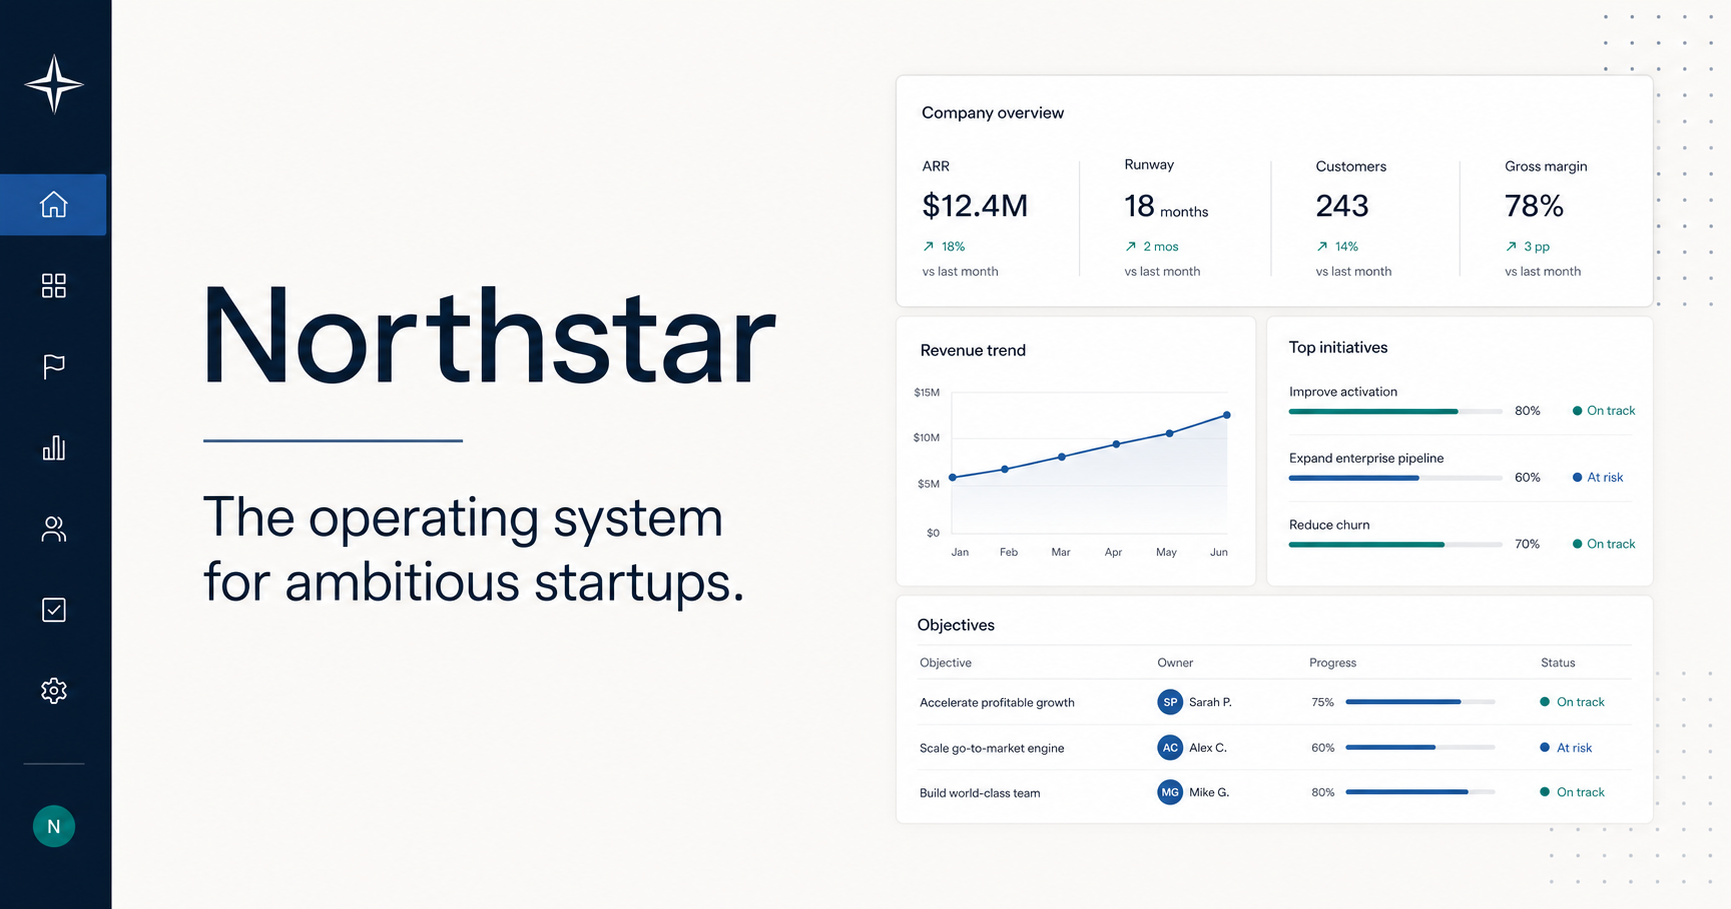
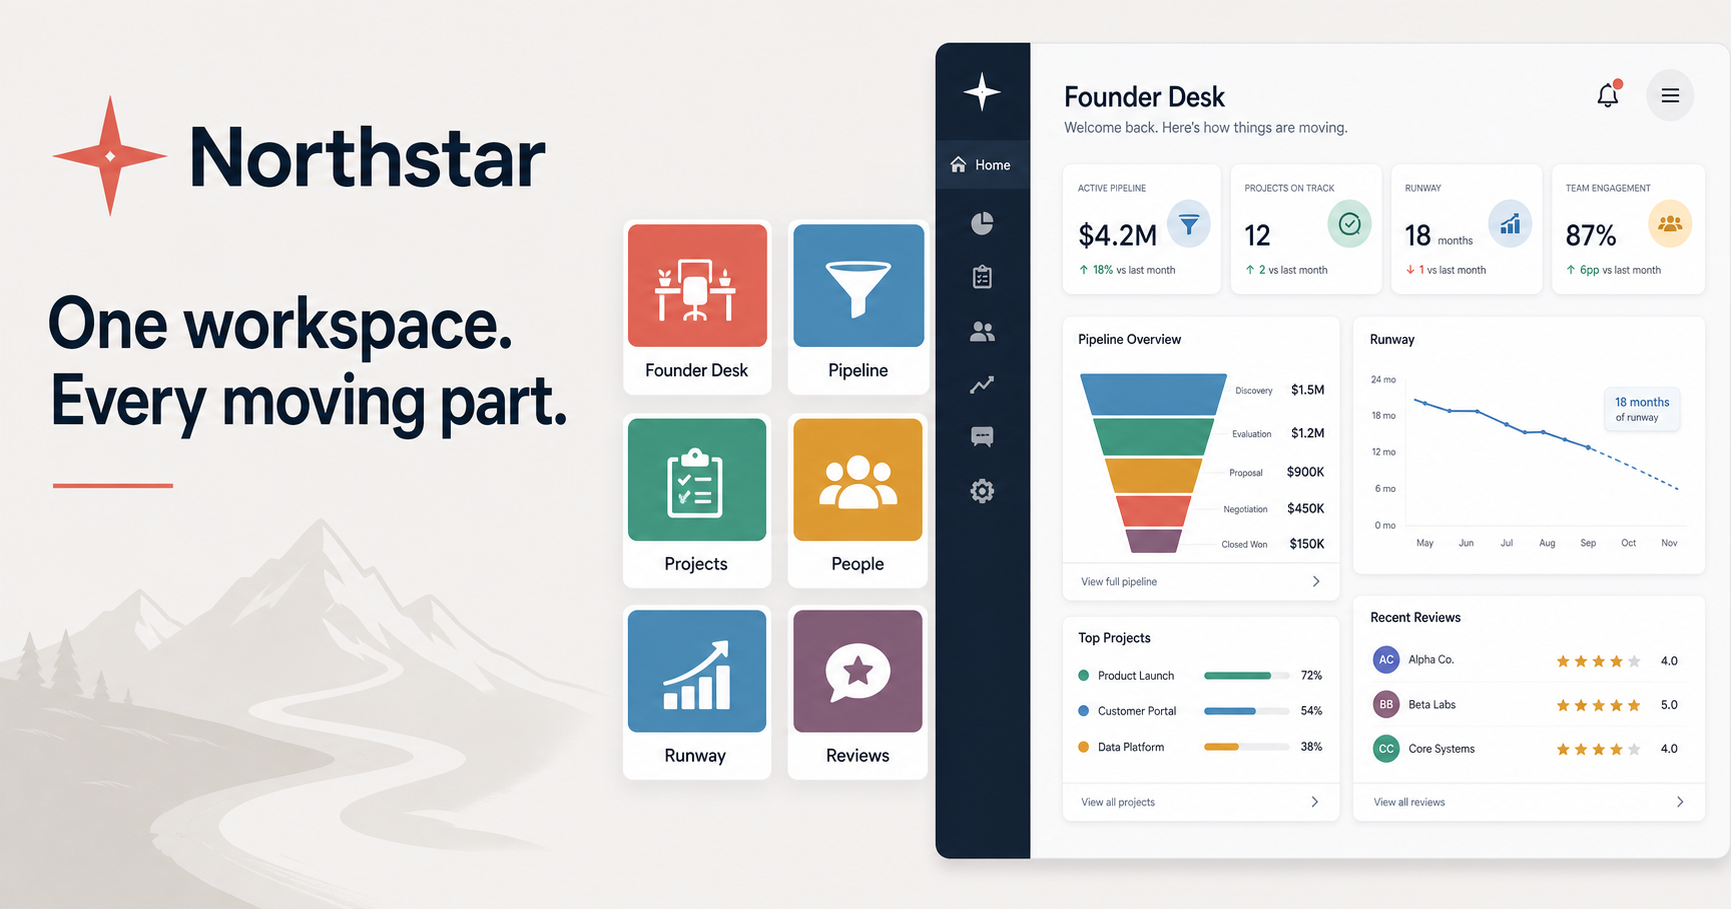
Add modular operating app experience

diff --git a/app/globals.css b/app/globals.css
@@ -148,3 +148,33 @@ body { background:var(--bg); color:var(--text); font-family:var(--font-geist-san
 .loading-line { background:#e3e7eb; }
 .loading-line i { background:#315b82; }
 .toast { background:#fff3f2; border-color:#efc9c6; color:#9d3833; box-shadow:0 8px 25px #10182812; }
+
+/* Northstar modular workspace — inspired by integrated business suites, never copied */
+.content { max-width:1460px; }
+.app-launcher { margin:-5px 0 30px; }
+.launcher-heading { display:flex; align-items:center; justify-content:space-between; margin:0 2px 11px; }
+.launcher-heading>span { font-size:8px; font-weight:850; letter-spacing:1.45px; color:#7b8794; }
+.launcher-heading button { border:0; background:transparent; color:#315b82; font-size:9px; font-weight:750; cursor:pointer; }
+.app-grid { display:grid; grid-template-columns:repeat(6,1fr); gap:10px; }
+.app-tile { min-width:0; display:flex; align-items:center; gap:10px; text-align:left; padding:11px; border-radius:13px; border:1px solid #e1e5ea; background:#fff; color:#17202a; cursor:pointer; box-shadow:0 1px 2px #10182808; transition:transform .16s ease,border-color .16s ease,box-shadow .16s ease; }
+.app-tile:hover { transform:translateY(-2px); border-color:#cad2da; box-shadow:0 8px 18px #25344612; }
+.app-tile.selected { border-color:#aebbc7; box-shadow:0 0 0 2px #173b5d0c; }
+.app-tile>span:last-child { min-width:0; display:flex; flex-direction:column; gap:3px; }
+.app-tile b { font-size:10px; font-weight:760; white-space:nowrap; overflow:hidden; text-overflow:ellipsis; }
+.app-tile small { font-size:8px; color:#7b8794; white-space:nowrap; overflow:hidden; text-overflow:ellipsis; }
+.app-icon { position:relative; width:37px; height:37px; flex:0 0 auto; display:grid; place-items:center; border-radius:11px; color:#fff; font-size:15px; font-weight:850; }
+.app-icon i { position:absolute; right:-4px; top:-5px; width:16px; height:16px; display:grid; place-items:center; border-radius:99px; background:#fff; color:#a83e38; border:1px solid #efcfcd; font-size:7px; font-style:normal; }
+.app-icon.ink { background:#24384c; }.app-icon.coral { background:#d96c5f; }.app-icon.sky { background:#4f91c4; }.app-icon.jade { background:#3b9a81; }.app-icon.amber { background:#d59a43; }.app-icon.plum { background:#82688d; }
+.briefing-card { border-radius:20px; background:linear-gradient(100deg,#fff 0 73%,#f0f5f7 73%); }
+.metric-card { border-radius:15px; border-top:3px solid #d8e1e8; }
+.metric-card:nth-child(1) { border-top-color:#3b9a81; }.metric-card:nth-child(2) { border-top-color:#4f91c4; }.metric-card:nth-child(3) { border-top-color:#d59a43; }.metric-card:nth-child(4) { border-top-color:#d96c5f; }
+.panel { border-radius:18px; }
+.action-button { background:#315b82; border-color:#315b82; }
+.insight .action-button { background:#fff; color:#173b5d; border-color:#b8c4cf; box-shadow:none; }
+.insight .action-button:hover { background:#edf3f7; }
+.ask-panel { background:linear-gradient(135deg,#f5f8fa,#eef3f6); }
+.small-orb { background:#315b82; }
+.module-hero { border-radius:20px; }
+
+@media(max-width:1120px){.app-grid{grid-template-columns:repeat(3,1fr)}}
+@media(max-width:600px){.app-grid{display:flex;overflow-x:auto;padding-bottom:5px;scroll-snap-type:x proximity}.app-tile{min-width:150px;scroll-snap-align:start}.app-launcher{margin-bottom:24px}.briefing-card{background:#fff}}

diff --git a/app/startup-os.tsx b/app/startup-os.tsx
@@ -62,9 +62,21 @@ export function StartupOS() {
     </aside>
     <section className="main-area">
       <header className="topbar"><button className="menu-button" onClick={() => setMenuOpen(!menuOpen)} aria-label="Toggle navigation">☰</button><div className="breadcrumb"><span>Arc Labs</span><b>/</b><strong>{active}</strong></div><div className="top-actions"><button className="icon-button" aria-label="Notifications">♢<i>{pending.length}</i></button><button className="primary-button" onClick={() => document.getElementById("ask-input")?.focus()}>✦ Ask Northstar</button></div></header>
-      <div className="content">{active === "Overview" ? <Overview data={data} pending={pending} approve={approve} loadingId={loadingId} query={query} setQuery={setQuery} answer={answer} ask={askNorthstar} /> : <ModulePage active={active} data={data} />}{error ? <div className="toast" role="alert">{error}</div> : null}</div>
+      <div className="content"><AppLauncher active={active} setActive={setActive} pending={pending.length}/>{active === "Overview" ? <Overview data={data} pending={pending} approve={approve} loadingId={loadingId} query={query} setQuery={setQuery} answer={answer} ask={askNorthstar} /> : <ModulePage active={active} data={data} />}{error ? <div className="toast" role="alert">{error}</div> : null}</div>
     </section>
   </main>;
+}
+
+function AppLauncher({ active, setActive, pending }: { active: (typeof navItems)[number]; setActive: (value: (typeof navItems)[number]) => void; pending: number }) {
+  const apps: Array<{ name: string; label: string; icon: string; target: (typeof navItems)[number]; tone: string; badge?: string }> = [
+    { name: "Founder Desk", label: "Today", icon: "✦", target: "Overview", tone: "ink", badge: pending ? `${pending}` : undefined },
+    { name: "Pipeline", label: "$312k open", icon: "↗", target: "CRM", tone: "coral" },
+    { name: "Projects", label: "4 priorities", icon: "✓", target: "Goals", tone: "sky" },
+    { name: "People", label: "87% velocity", icon: "◌", target: "Team", tone: "jade" },
+    { name: "Runway", label: "14.2 months", icon: "⌁", target: "Reports", tone: "amber" },
+    { name: "Reviews", label: "Friday ready", icon: "▤", target: "Reports", tone: "plum" },
+  ];
+  return <section className="app-launcher" aria-label="Operating apps"><div className="launcher-heading"><span>YOUR OPERATING APPS</span><button>Customize</button></div><div className="app-grid">{apps.map((app) => <button key={app.name} className={active === app.target ? "app-tile selected" : "app-tile"} onClick={() => setActive(app.target)}><span className={`app-icon ${app.tone}`}>{app.icon}{app.badge ? <i>{app.badge}</i> : null}</span><span><b>{app.name}</b><small>{app.label}</small></span></button>)}</div></section>;
 }
 
 function LoadingState({ error, retry }: { error: string; retry: () => void }) {
